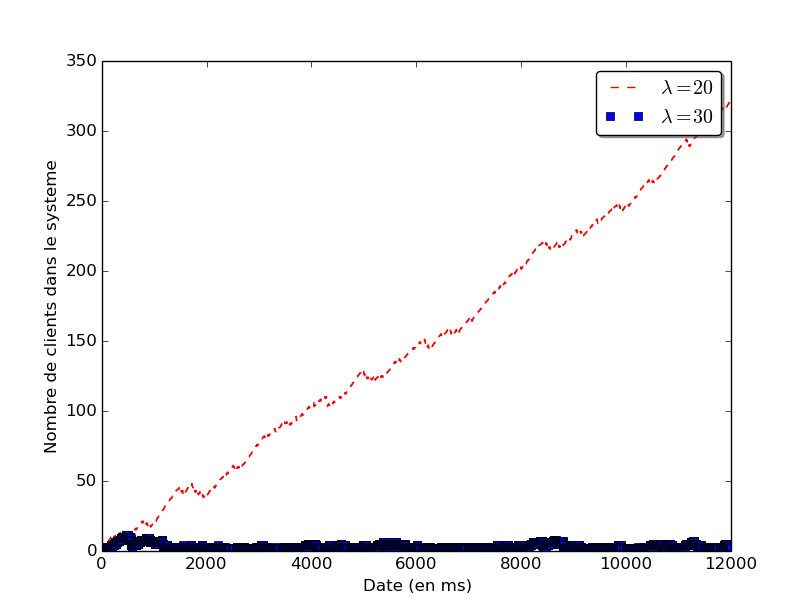
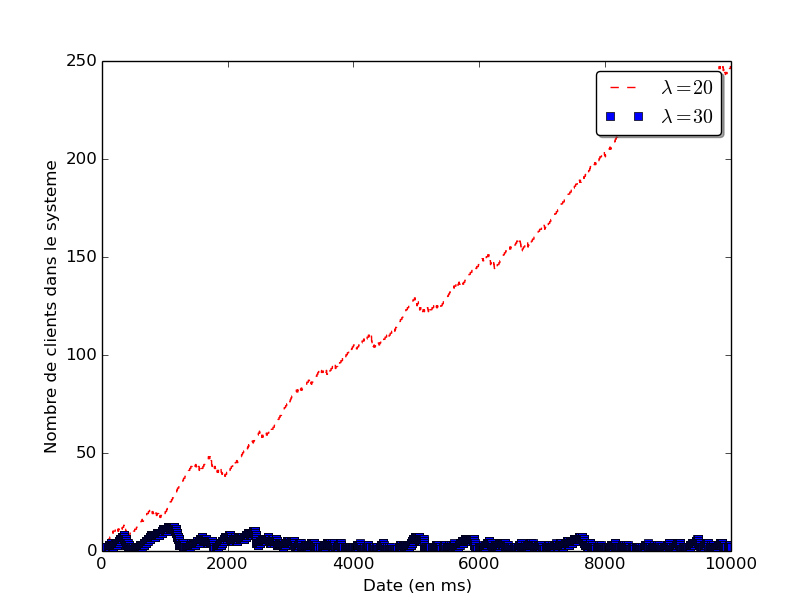
correction d'une figure et des valeurs de moy et medianne

diff --git a/src/v2/0/main.py b/src/v2/0/main.py
@@ -52,6 +52,6 @@ if __name__ == "__main__":
     seed(1)
     np.random.seed(1)
 
-    s1.do(40, 60, -1, 80000, 0.1, 1)
+    s1.do(40, 60, -1, 100000, 0.1, 1)
 #    mp.do(1.25, 2)
-#    s2.do(40, 60, -1, 80000, 1.25, 2, 1)
+#    s2.do(40, 60, -1, 100000, 1.25, 2, 1)

diff --git a/rapport.md b/rapport.md
@@ -53,27 +53,27 @@ Nous donnons à notre simulateur un time_out (en ms) qui correspond à la limite
   L'intervalle de confiance de la moyenne est calculé à l'aide de la formule suivant : *erreur = &#963;/sqrt(n)* avec n le nombre d'échantillons de la simulation.  
   L'intervalle de confiance pour la médiane est donné par [Xj, Xk]  avec k>j qui vérifient *j = n/2 - sqrt(n)/2* et *k = n/2 + sqrt(n)/2* pour n suffisament grand.
   1. **&#955;=40**  
-    *Moyenne* = 54ms  
-    *Intervalle de confiance de la moyenne* = [52.92ms, 55.08ms] (erreur = 1.08ms)
+    *Moyenne* = 56ms  
+    *Intervalle de confiance de la moyenne* = [55.57ms, 56.43ms] (erreur = 0.43ms)
 
     *Médiane* = 52ms  
     *Intervalle de confiance de la médiane* = [52ms, 53ms]
   2. **&#955;=60**  
       *Moyenne* = 49ms  
-      *Intervalle de confiance de la moyenne* = [47.87ms, 50.13ms] (erreur = 1.13ms)
+      *Intervalle de confiance de la moyenne* = [48.63ms, 49.37ms] (erreur = 0.37ms)
 
-      *Médiane* = 49ms  
-      *Intervalle de confiance de la médiane* = [48ms, 49ms]
+      *Médiane* = 48ms  
+      *Intervalle de confiance de la médiane* = [48ms, 48ms]
 
 ##### Exercice 2
 
 1. **TO DO**  
   On calcule la moyenne de la distribution de Pareto sur 100, 1000 puis 10^6 tirages et on obtient les résultats suivants :
   1. 100 tirages : 6.21ms
-  2. 200 tirages : 7.16ms
-  3. 300 tirages : 9.48ms
+  2. 1000 tirages : 7.16ms
+  3. 10^6 tirages : 9.48ms
 2. //
-  1. Le système nous semble stable pour un **&#955; strictement supérieur à 24.**  
+  1. Le système nous semble stable pour un **&#955; strictement supérieur à 24.** L'allure des courbes est différente de l'exercice 1, on observe notamment des pics d'amplitude plus importante qu'avec la distribution exponentielle.
   ![Image inconnue](./Graphs/24-25-26_40000_pareto.png)
   2. On choisit &#955;=20 et &#955;=30.  
     ![Image inconnue](./Graphs/20-30_40000_pareto.png)  
@@ -83,15 +83,17 @@ Pour &#955;=40 et &#955;=60 cela est possible car le système est stable.
 L'intervalle de confiance de la moyenne est calculé à l'aide de la formule suivant : *erreur = &#963;/sqrt(n)* avec n le nombre d'échantillons de la simulation.  
 L'intervalle de confiance pour la médiane est donné par [Xj, Xk]  avec k>j qui vérifient *j = n/2 - sqrt(n)/2* et *k = n/2 + sqrt(n)/2* pour n suffisament grand.
   1. **&#955;=40**  
-    *Moyenne* = 57ms  
-    *Intervalle de confiance de la moyenne* = [56.04ms, 57.96ms] (erreur = 0.96ms)
+    *Moyenne* = 61ms  
+    *Intervalle de confiance de la moyenne* = [59.74ms, 62.26ms] (erreur = 1.26ms)
+
     *Médiane* = 47ms  
-    *Intervalle de confiance de la médiane* = [46.7ms, 47.6ms]
+    *Intervalle de confiance de la médiane* = [47.0ms, 47.7ms]
   2. **&#955;=60**  
-      *Moyenne* = 56ms  
-      *Intervalle de confiance de la moyenne* = [54.43ms, 57.57ms] (erreur = 1.57ms)
-      *Médiane* = 45ms  
-      *Intervalle de confiance de la médiane* = [45.0ms, 46.0ms]
+      *Moyenne* = 52ms  
+      *Intervalle de confiance de la moyenne* = [51.03ms, 52.97ms] (erreur = 0.97ms)
+      
+      *Médiane* = 46ms  
+      *Intervalle de confiance de la médiane* = [45.5ms, 46.5ms]
 
 ```
 Le temps moyen pour lambda = 20 est de 14054.4984128ms et la médiane est 14959.7977102.
